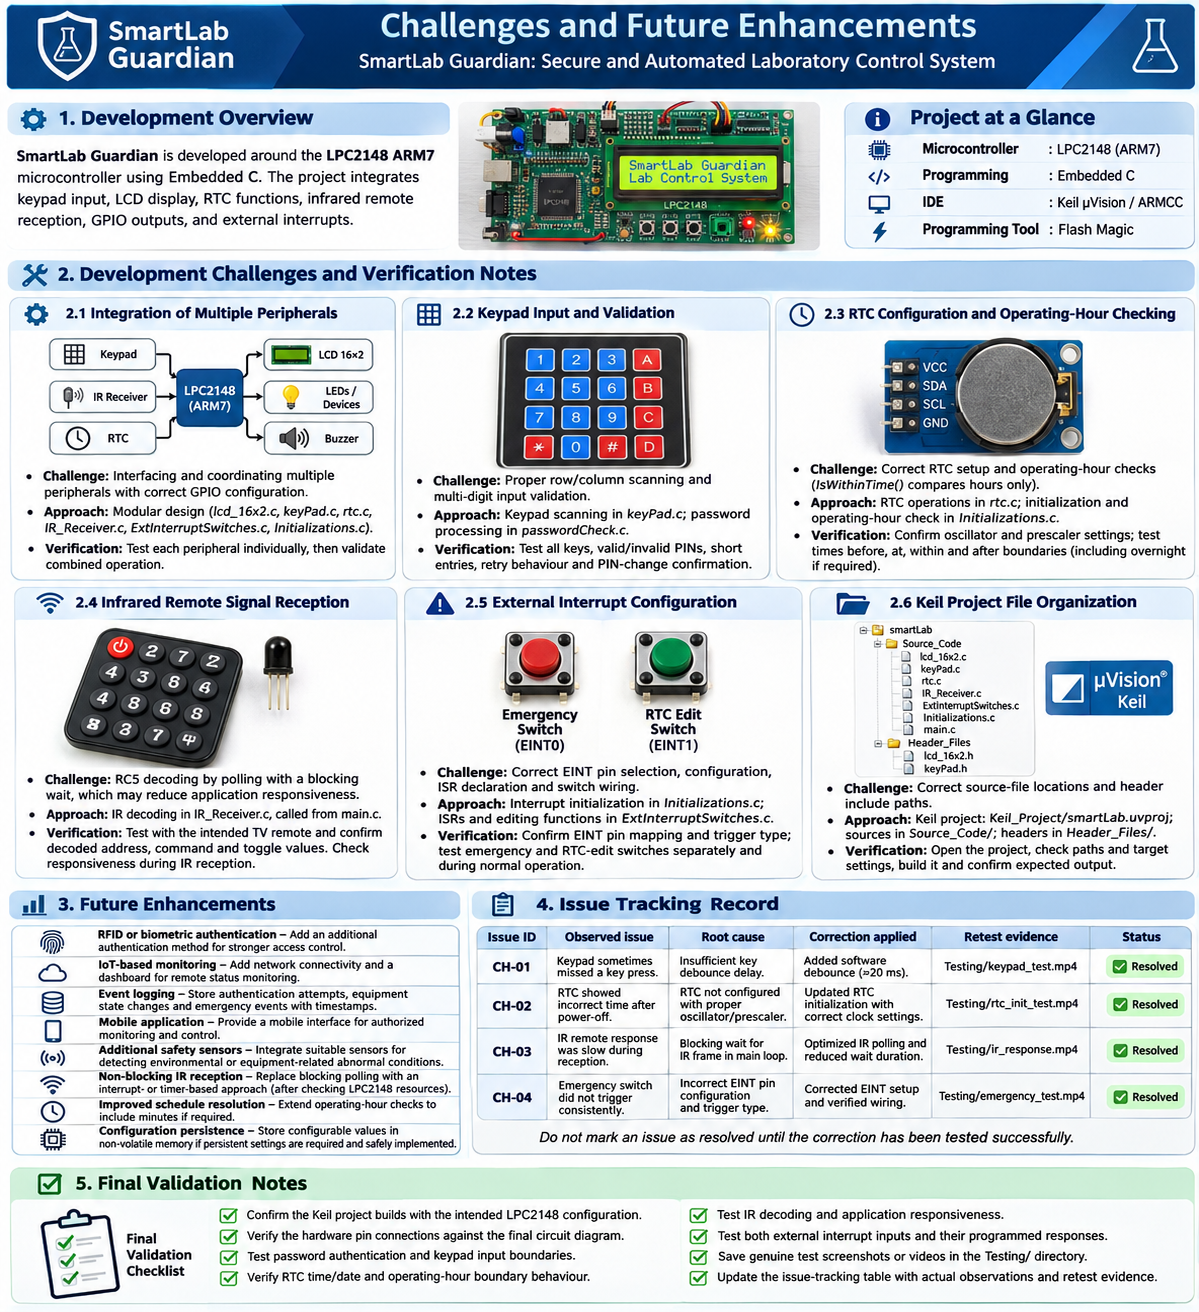
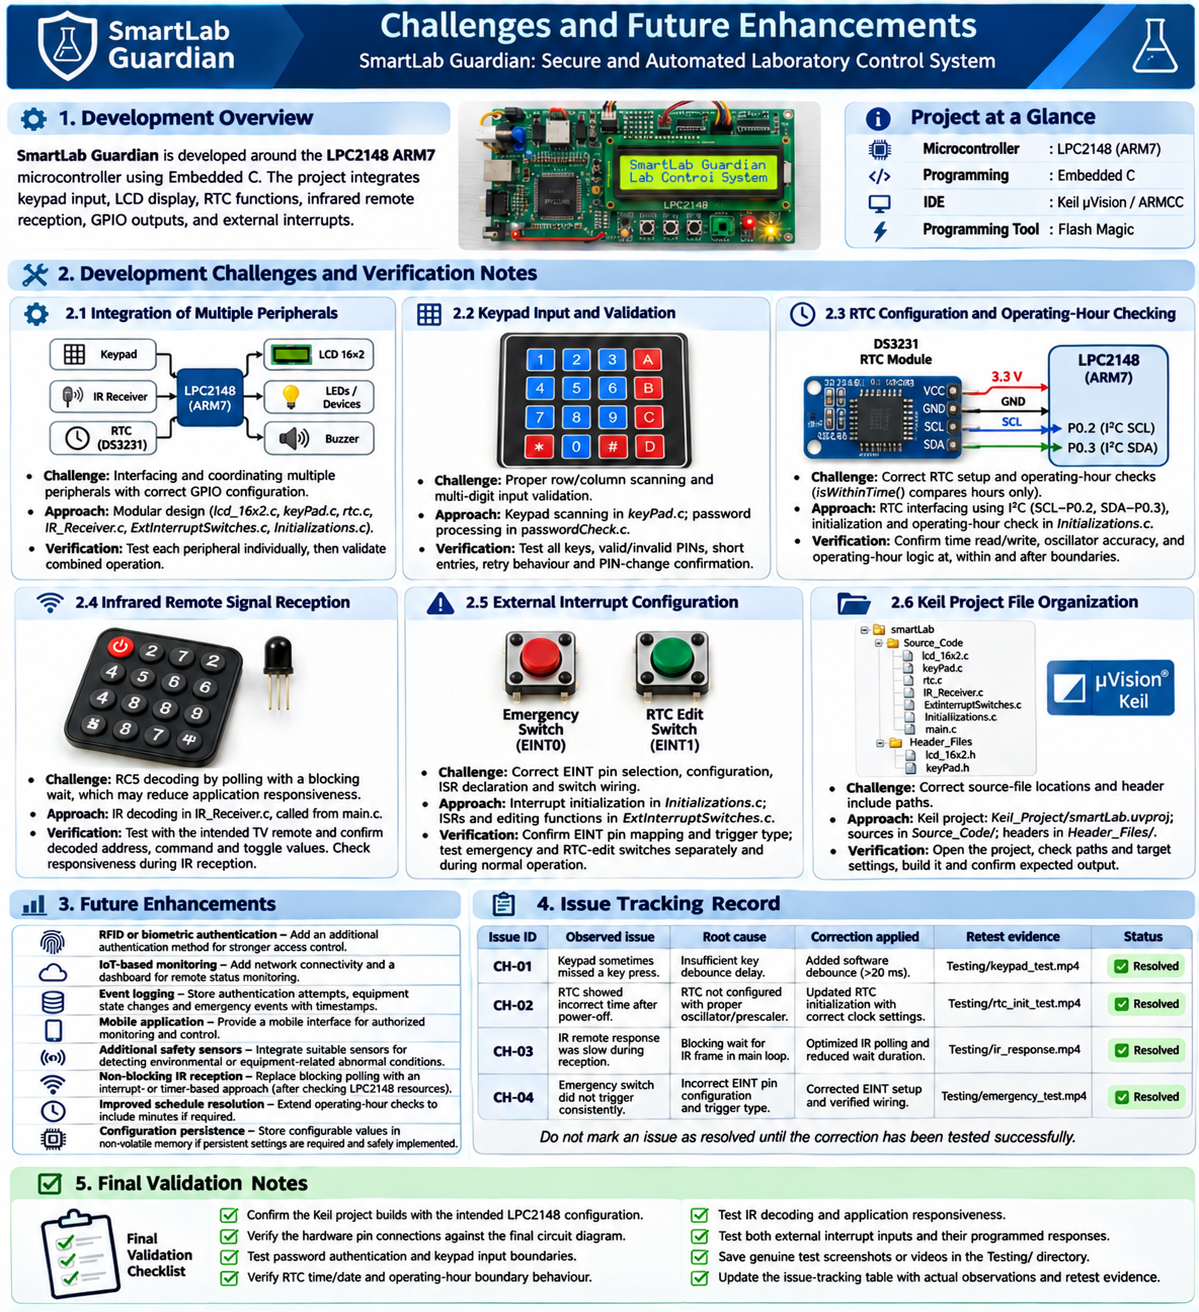
Final updat

diff --git a/Keil_Project/smartLab.build_log.htm b/Keil_Project/smartLab.build_log.htm
@@ -7,44 +7,6 @@ E:\SmartLab-Guardian\Keil_Project\smartLab.uvproj
 Project File Date:  11/18/2026
 
 <h2>Output:</h2>
-Rebuild target 'Target 1'
-assembling Startup.s...
-compiling delay.c...
-compiling main.c...
-compiling lcd_16x2.c...
-compiling keyPad.c...
-compiling rtc.c...
-compiling ExtInterruptSwitches.c...
-compiling Initializations.c...
-compiling IR_Receiver.c...
-compiling passwordCheck.c...
-linking...
-Program Size: Code=9640 RO-data=64 RW-data=156 ZI-data=1260  
-".\smartLab.axf" - 0 Error(s), 0 Warning(s).
 </pre>
 </body>
 </html>
-tions.c...
-compiling IR_Receiver.c...
-compiling passwordCheck.c...
-linking...
-Program Size: Code=9640 RO-data=64 RW-data=156 ZI-data=1260  
-".\smartLab.axf" - 0 Error(s), 1 Warning(s).
-BUZZER_ON;                           // Activate buzzer for emergency alert
-..\Source_Code\ExtInterruptSwitches.c(137): error:  #20: identifier "SOUND_KEY_PRESSED" is undefined
-        while(!(SOUND_KEY_PRESSED)){
-..\Source_Code\ExtInterruptSwitches.c(142): error:  #20: identifier "BUZZER_OFF" is undefined
-        BUZZER_OFF;
-..\Source_Code\ExtInterruptSwitches.c: 0 warnings, 5 errors
-compiling Initializations.c...
-compiling IR_Receiver.c...
-compiling passwordCheck.c...
-".\smartLab.axf" - 5 Error(s), 0 Warning(s).
-Target not created
-ries multiply defined (by initializations.o and extinterruptswitches.o).
-.\smartLab.axf: Error: L6200E: Symbol editRTC multiply defined (by initializations.o and extinterruptswitches.o).
-Not enough information to list image symbols.
-Not enough information to list the image map.
-Finished: 2 information, 0 warning and 9 error messages.
-".\smartLab.axf" - 9 Error(s), 0 Warning(s).
-Target not created
